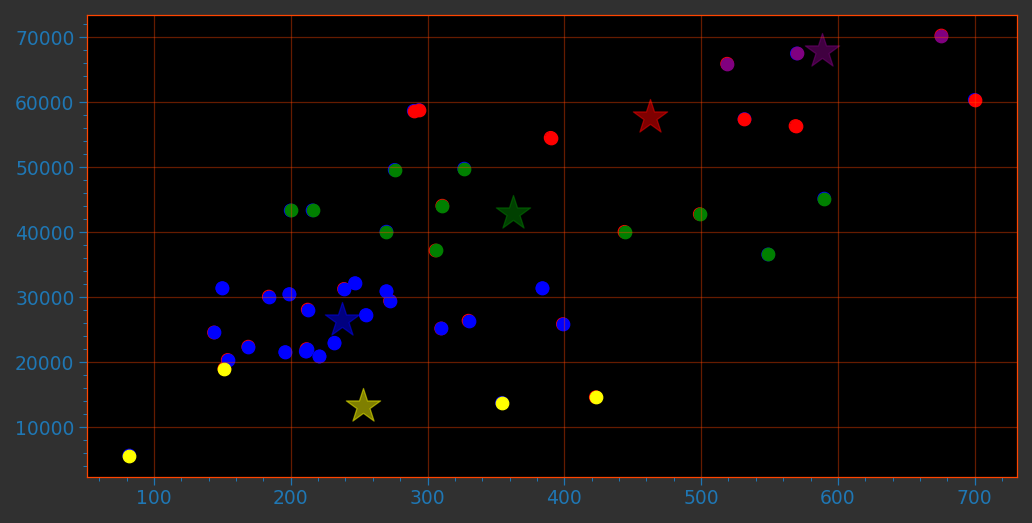
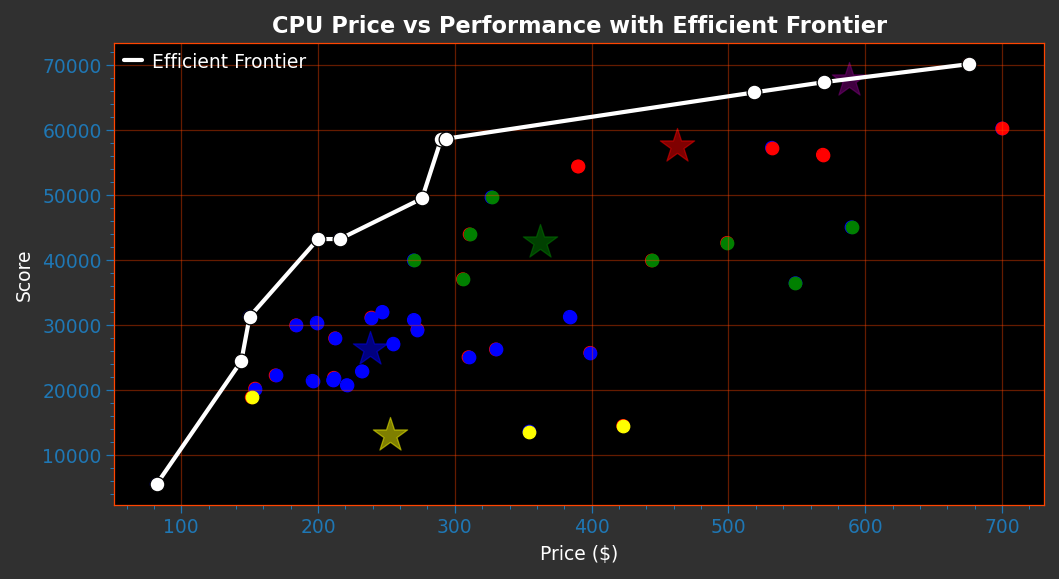
Add efficient frontier and fix GitHub Pages deployment
- Plot Pareto-optimal CPUs as efficient frontier line
- Add environment setting for GitHub Pages deployment
- Update chart with labels and legend

diff --git a/docs/index.html b/docs/index.html
@@ -19,7 +19,7 @@
 </head>
 <body>
     <h1>CPU Price/Performance Analysis</h1>
-    <p class="updated">Last updated: 2026-02-02</p>
+    <p class="updated">Last updated: 2026-02-01</p>
 
     <h2>Top 10 Best Value CPUs</h2>
     <table>

diff --git a/cpudata.py b/cpudata.py
@@ -174,6 +174,25 @@ for i, center in enumerate(kmeans.cluster_centers_):
 for i in range(len(data)):
     plt.scatter(data[i][0], data[i][1], color=colors[kmeans.labels_[i]])
 
+# Calculate and plot the efficient frontier (Pareto frontier)
+# A CPU is Pareto-optimal if no other CPU has both higher score AND lower price
+cpu_sorted = cpu.sort_values('price')
+frontier_prices = []
+frontier_scores = []
+max_score = 0
+for _, row in cpu_sorted.iterrows():
+    if row['score'] > max_score:
+        frontier_prices.append(row['price'])
+        frontier_scores.append(row['score'])
+        max_score = row['score']
+
+plt.plot(frontier_prices, frontier_scores, 'w-', linewidth=2, label='Efficient Frontier')
+plt.scatter(frontier_prices, frontier_scores, c='white', s=50, zorder=5, edgecolors='black')
+plt.xlabel('Price ($)')
+plt.ylabel('Score')
+plt.legend()
+plt.title('CPU Price vs Performance with Efficient Frontier')
+
 plt.savefig(OUTPUT_DIR / "clusters.png", dpi=150, bbox_inches='tight')
 plt.close()
 
